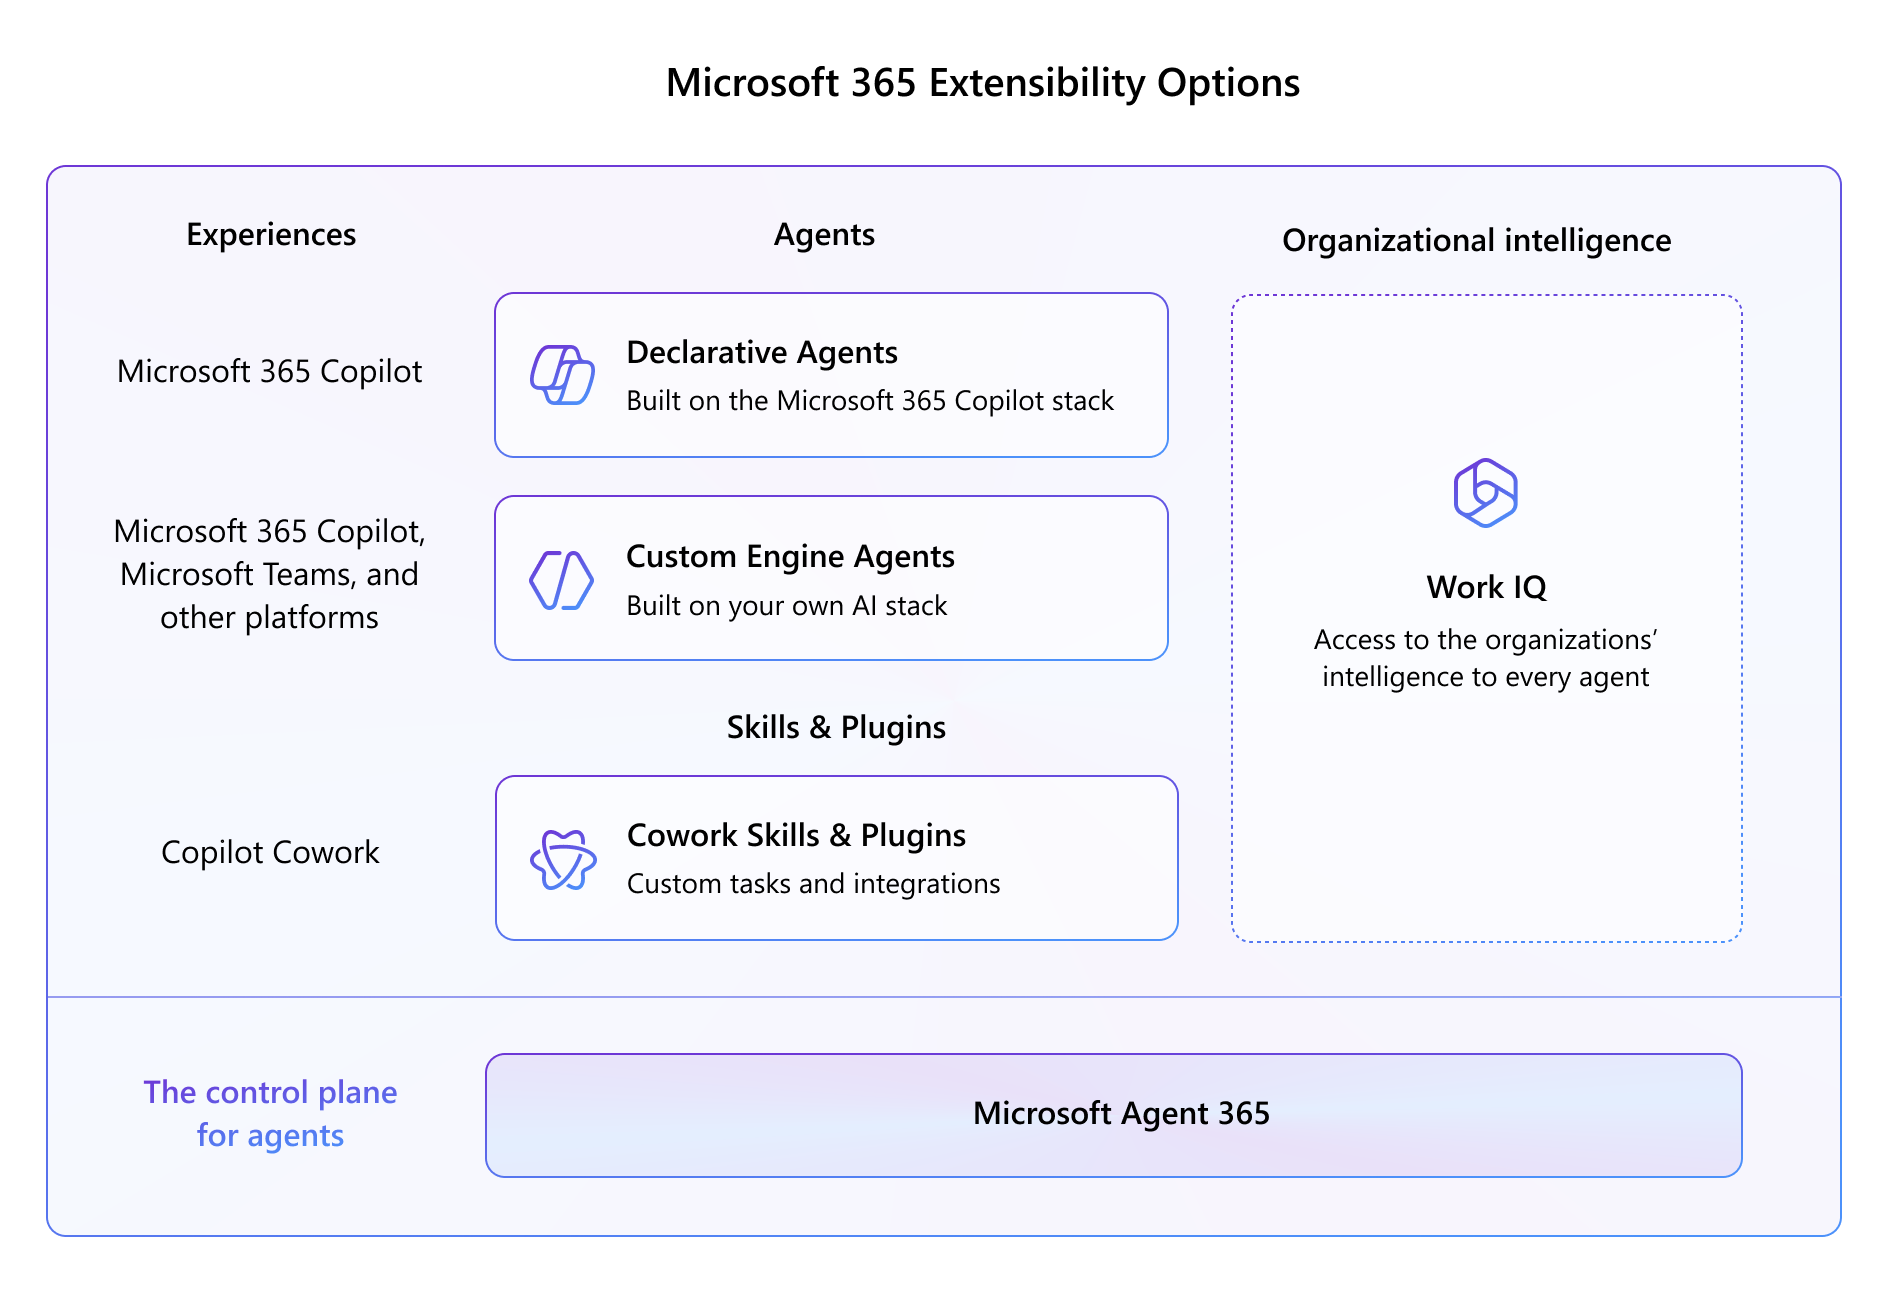
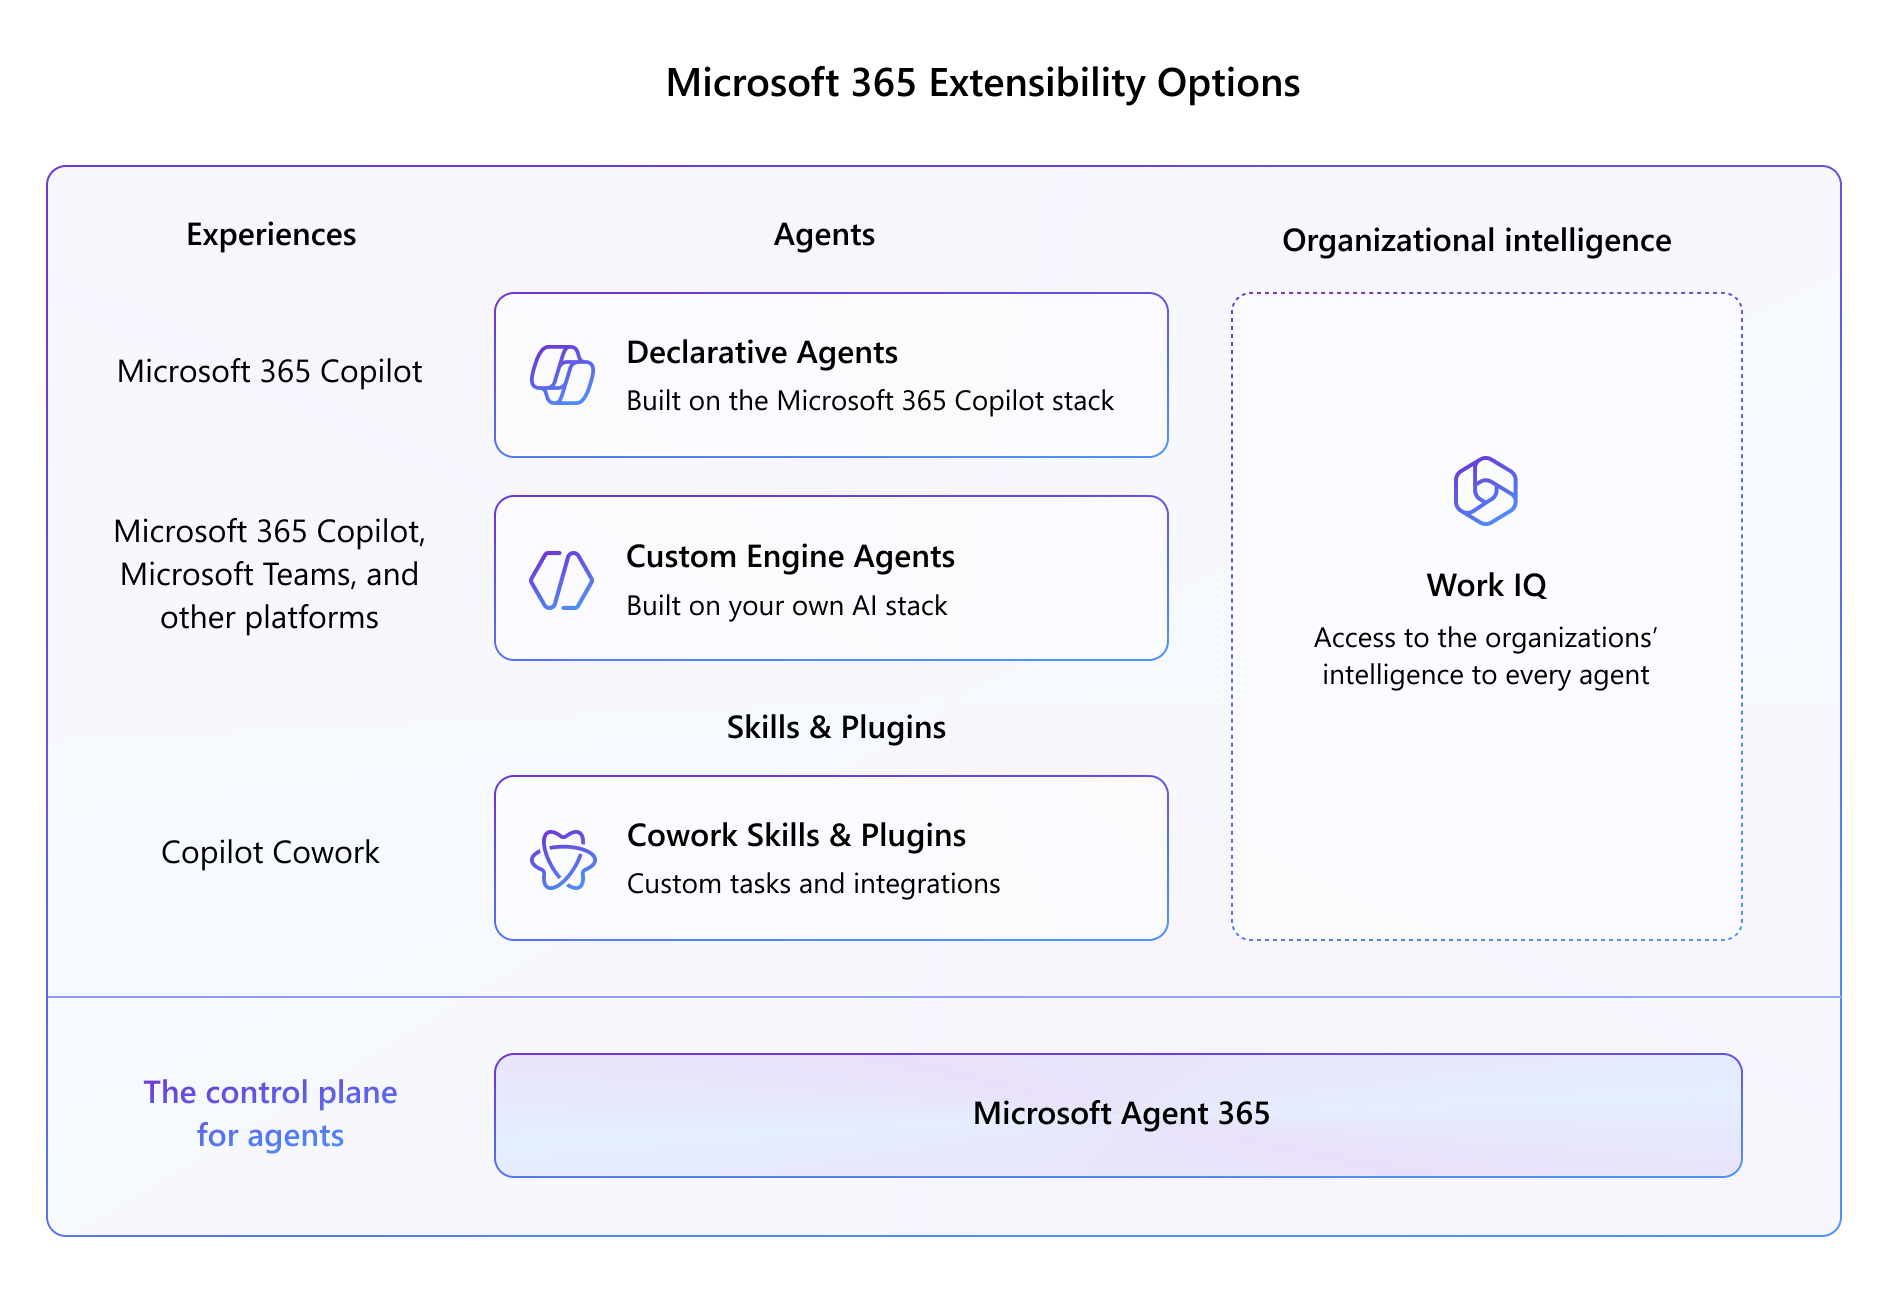
Deployed e6706edb with MkDocs version: 1.6.1

Changed region(s): [[0.6839, 0.4601, 0.8704, 0.5215], [0.746, 0.4294, 0.8082, 0.4601], [0.7771, 0.3681, 0.8082, 0.3988]]

diff --git a/index.html b/index.html
@@ -2630,7 +2630,7 @@
 <ul>
 <li><strong>Skills and plugins for Copilot Cowork</strong>: You build skills and plugins to extend the capabilities of Copilot Cowork.</li>
 </ul>
-<p>Adding work intelligence layer (Optional):</p>
+<p>Adding work intelligence layer:</p>
 <ul>
 <li><strong>Work IQ</strong>: Optionally, you build agents with Work IQ, which can provide access to the organizations' intelligence (email, meetings, files, people context, search, memory, reasoning signals) to every agent.</li>
 </ul>